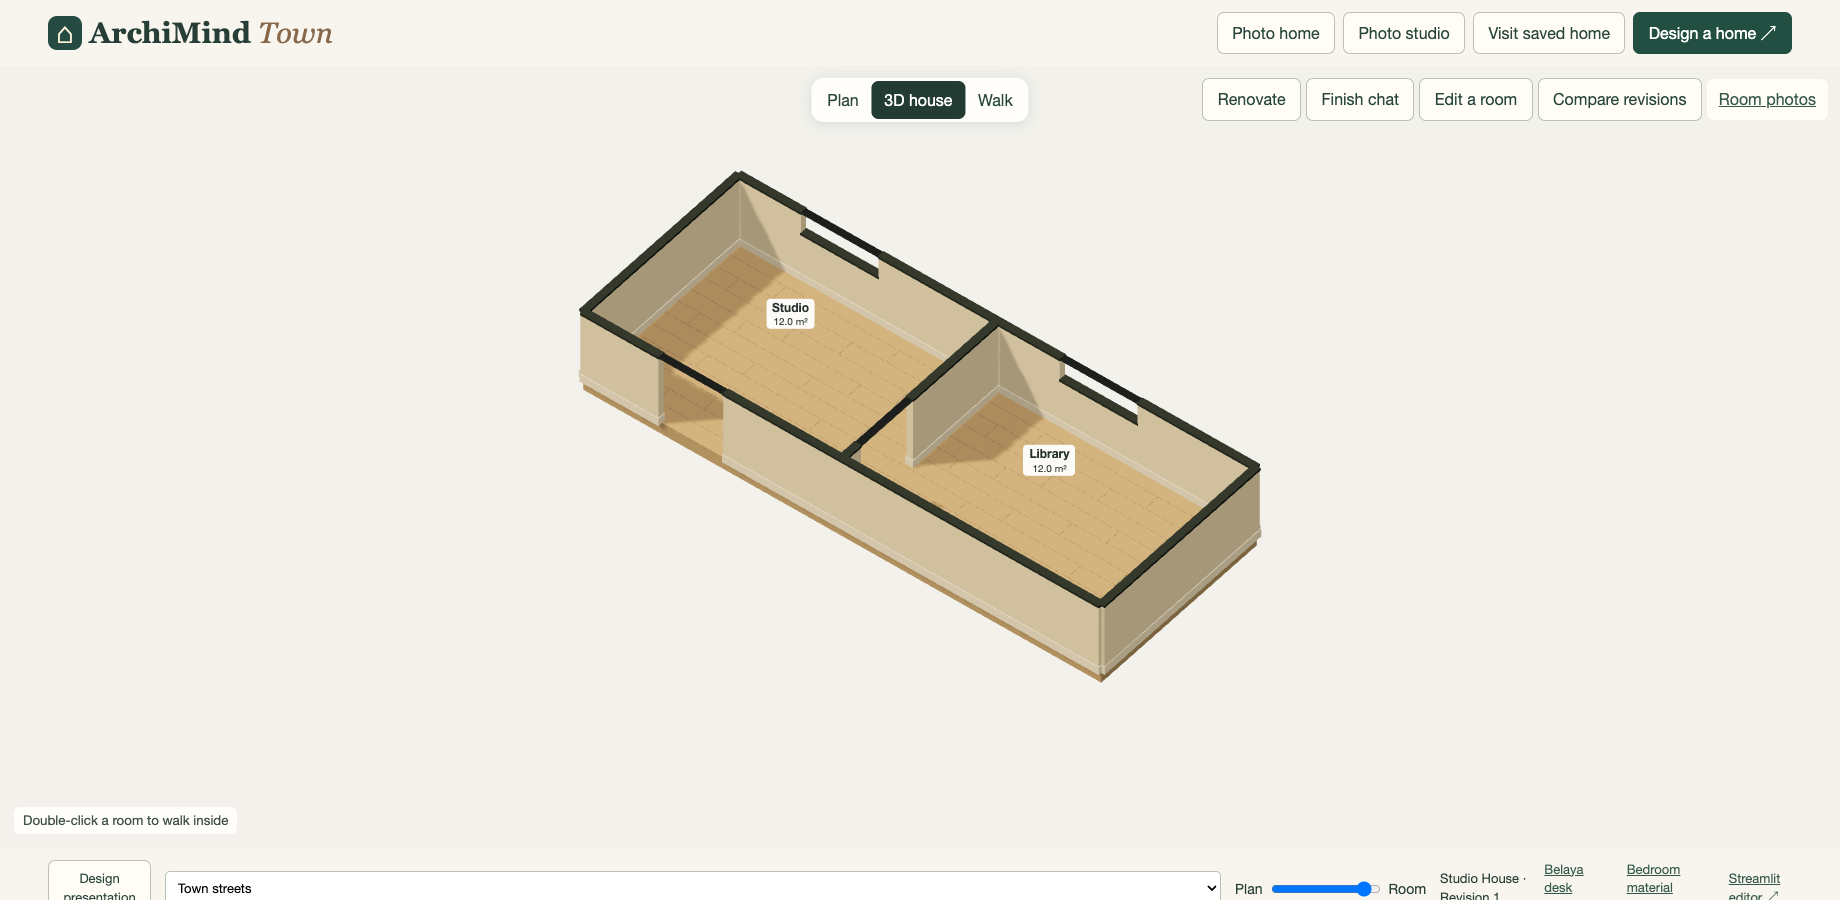
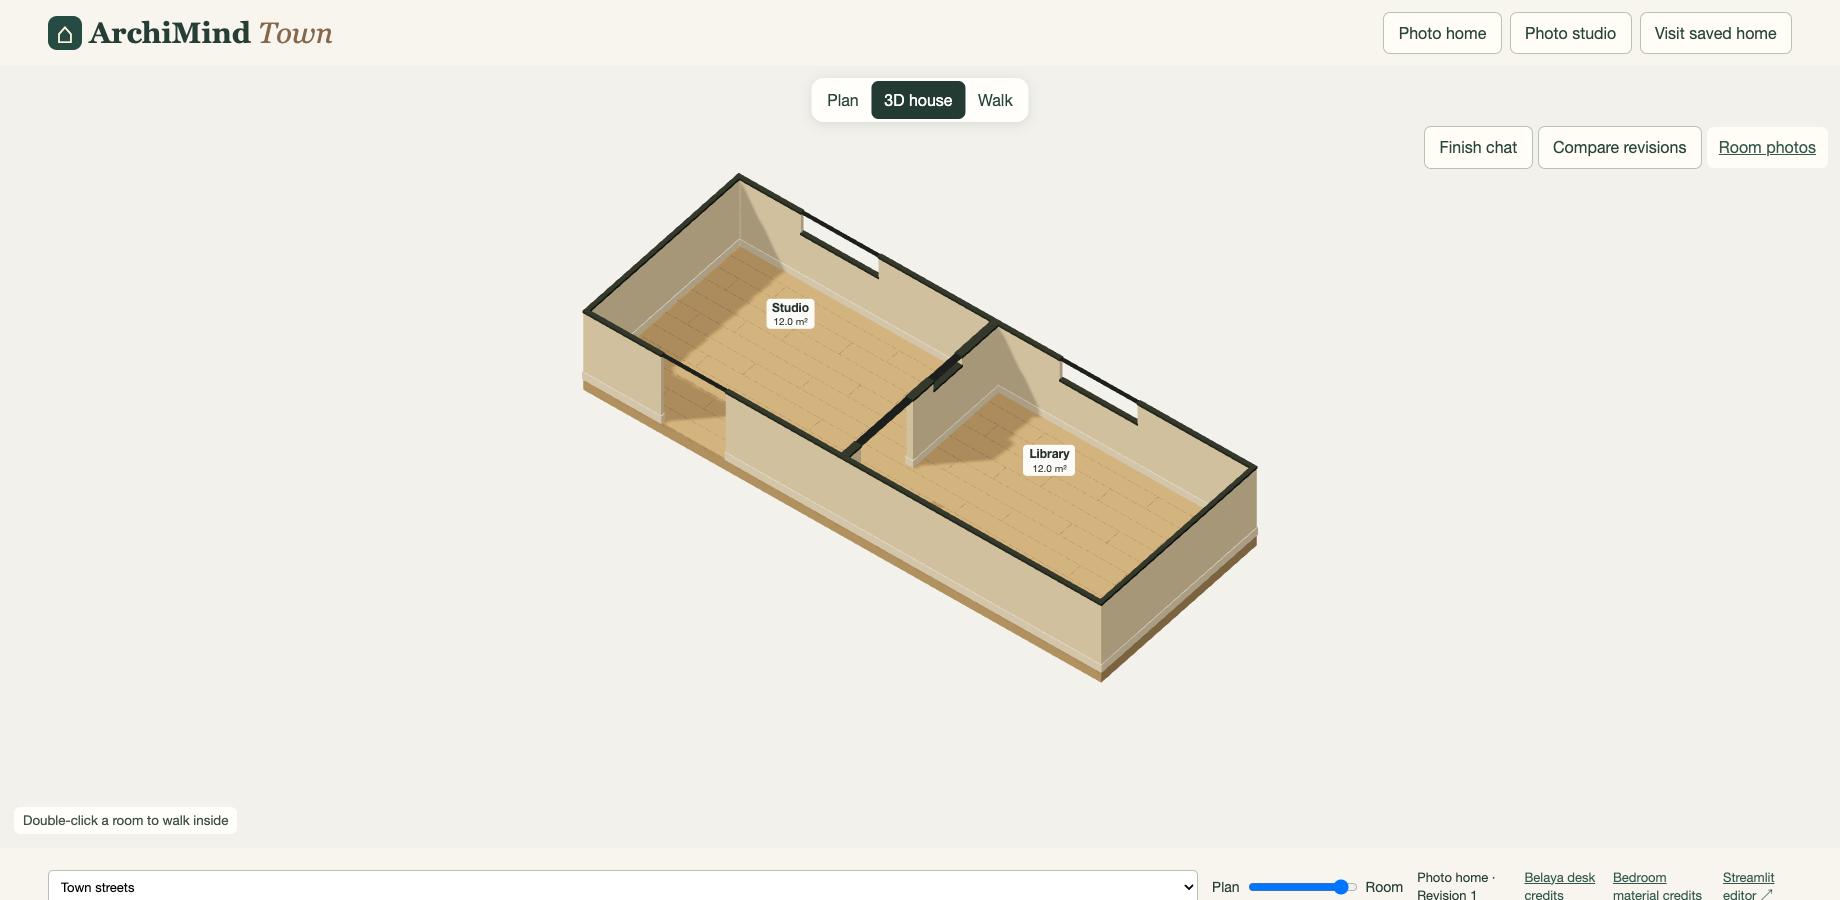
Validate shared glazing and historical camera positions and preserve overview framing

diff --git a/frontend/realistic_viewer/town/house_compare.js b/frontend/realistic_viewer/town/house_compare.js
@@ -5,6 +5,14 @@ import { manifestDigest } from "./bedroom_manifest.js";
 const bedroom = (home) =>
   home.rooms.find((part) => part.design.room.id === "bedroom");
 
+function containsCamera(home, pose) {
+  const part = home.rooms.find(p => p.design.room.id === pose.room);
+  if (!part) return false;
+  const [x, y] = part.origin, [px, height, z] = pose.eye, room = part.design.room;
+  return px >= x && px <= x + room.width_m && -z >= y && -z <= y + room.depth_m
+    && height > 0 && height < room.ceiling_height_m;
+}
+
 export function bindHouseComparison({ el, world, api, context, asset }) {
   const bookmarks = new Map();
   const dialog = el("houseCompare");
@@ -35,17 +43,15 @@ export function bindHouseComparison({ el, world, api, context, asset }) {
     let left, right, caption;
     const savedPose = bookmarks.get(view);
     if (savedPose) {
-      const hasRoom = (snapshot) =>
-        snapshot.rooms.some((p) => p.design.room.id === savedPose.room);
-      if (!hasRoom(home))
-        throw Error("The bookmarked room is absent in this revision.");
+      if (!containsCamera(home, savedPose))
+        throw Error("The camera is outside its room in this revision. Bookmark a new view.");
       if (kind === "revision") {
         if (revision < 2)
           throw Error("Save an edit before comparing two revisions.");
         const before = await api(path + "?revision=" + (revision - 1));
-        if (!hasRoom(before.home))
+        if (!containsCamera(before.home, savedPose))
           throw Error(
-            "The bookmarked room is absent in the previous revision.",
+            "The camera is outside its room in the previous revision.",
           );
         if (!current()) return;
         left = await capture(before.home, savedPose);
@@ -233,10 +239,11 @@ export function bindHouseComparison({ el, world, api, context, asset }) {
   };
   el("restoreRoomView").onclick = async () => {
     const pose = bookmarks.get(el("compareCamera").value);
-    if (!pose) return;
+    if (!pose || !containsCamera(context().home,pose)) return;
+    const source = context().home;
     dialog.close();
     await running;
-    world.restoreWalkingView(pose);
+    if (source === context().home) world.restoreWalkingView(pose);
   };
   el("compareKind").onchange = el("compareCamera").onchange = refresh;
   el("compareWipe").oninput = (event) =>

diff --git a/frontend/realistic_viewer/town/world.js b/frontend/realistic_viewer/town/world.js
@@ -1545,7 +1545,7 @@ export function createTown(canvas, status, action) {
   // Photo Studio, the client board, and revision comparison borrow the same camera and scene.
   let captureQueue = Promise.resolve();
   async function captureBedroomViews(snapshot, roomId = "bedroom", fixedViews = null) {
-    const original = home, originalPreset = photoView.value;
+    const original = home, originalPreset = photoView.value, framing = overview.framing();
     const eye = pos.clone(), heading = yaw, tilt = pitch, wasInside = inside;
     if (home !== snapshot) load(snapshot);
     const epoch = generation;
@@ -1598,6 +1598,7 @@ export function createTown(canvas, status, action) {
         load(original); enter(wasInside);
         pos.copy(eye); yaw = heading; pitch = tilt;
         photoView.value = originalPreset; selectPhoto();
+        overview.restoreFraming(framing);
       }
     }
   }

diff --git a/frontend/realistic_viewer/town/house_view.js b/frontend/realistic_viewer/town/house_view.js
@@ -331,6 +331,19 @@ export function houseView(canvas, scene, interior, street, avatar, renderer, lig
     select(value) {
       selected = value;
     },
+    framing() {
+      return {mode, room: focused?.design.room.id, eye: camera.position.clone(), target: controls.target.clone(), zoom: camera.zoom};
+    },
+    restoreFraming(frame) {
+      if (!frame.mode) return;
+      set(frame.mode);
+      focused = home.rooms.find(p => p.design.room.id === frame.room);
+      camera.position.copy(frame.eye);
+      controls.target.copy(frame.target);
+      camera.zoom = frame.zoom;
+      camera.updateProjectionMatrix();
+      controls.update();
+    },
     get mode() {
       return mode;
     },

diff --git a/src/archimind/town/bookmarks.py b/src/archimind/town/bookmarks.py
@@ -23,6 +23,24 @@ class Camera(BaseModel):
     aspect: float = Field(ge=0.15, le=8)
 
 
+def validate_room(home, pose):
+    part = next(
+        (p for p in home["rooms"] if p["design"]["room"]["id"] == pose.room), None
+    )
+    if part is None or math.dist(pose.eye, pose.target) < 0.01:
+        raise service.Problem("Select a room and a valid camera.")
+    x, y = part["origin"]
+    r = part["design"]["room"]
+    if not (
+        x <= pose.eye[0] <= x + r["width_m"]
+        and y <= -pose.eye[2] <= y + r["depth_m"]
+        and 0 < pose.eye[1] < r["ceiling_height_m"]
+    ):
+        raise service.Problem(
+            "The saved camera falls outside the room in this revision."
+        )
+
+
 def handle(q, owner, project, method, body):
     head = service.project(q, owner, project)
     if method == "GET":
@@ -39,19 +57,7 @@ def handle(q, owner, project, method, body):
         raise service.Problem("Open the latest revision to bookmark a view.", 409)
     pose = Camera.model_validate(body["pose"])
     home = service.revision(q, project, head)
-    part = next(
-        (p for p in home["rooms"] if p["design"]["room"]["id"] == pose.room), None
-    )
-    if part is None or math.dist(pose.eye, pose.target) < 0.01:
-        raise service.Problem("Select a room and a valid camera.")
-    x, y = part["origin"]
-    r = part["design"]["room"]
-    if not (
-        x <= pose.eye[0] <= x + r["width_m"]
-        and y <= -pose.eye[2] <= y + r["depth_m"]
-        and 0 < pose.eye[1] < r["ceiling_height_m"]
-    ):
-        raise service.Problem("Walk inside the room before bookmarking its view.")
+    validate_room(home, pose)
     value = pose.model_dump()
     q(
         "INSERT INTO town_bookmarks(project,room,pose) VALUES(?,?,?) ON CONFLICT(project,room) DO UPDATE SET pose=excluded.pose",
@@ -70,6 +76,7 @@ def photograph(snapshot, pose, blender):
     from . import render_queue
     from .design import digest
 
+    validate_room(snapshot["home"], Camera.model_validate(pose))
     proof = render_queue._paths(snapshot, blender) / "proof"
     key = digest([snapshot["home"]["id"], pose])
     output = proof.parent / ("camera-" + key + ".png")

diff --git a/scripts/render_photo_shell.py b/scripts/render_photo_shell.py
@@ -1,6 +1,7 @@
 """Build the confirmed photo-room shell for a bookmarked Cycles view."""
 
 import bpy
+from mathutils import Vector
 
 
 def build(board):
@@ -62,3 +63,43 @@ def build(board):
                     (abs(b[0] - a[0]) + 0.075, abs(b[1] - a[1]) + 0.075, 0.13),
                     "#eadfcb",
                 )
+        for win in room["windows"]:
+            side = win["wall"]
+            if side == "west" and win["id"].startswith("join-window-"):
+                continue
+            width = win["width_m"]
+            along = win["offset_m"] + width / 2
+            sill, height = win["sill_height_m"], win["height_m"]
+            horizontal = side in {"north", "south"}
+            x = ox + (along if horizontal else w if side == "east" else 0)
+            y = oy + (d if side == "north" else 0 if horizontal else along)
+            if not win["id"].startswith("join-window-"):
+                inward = {
+                    "north": (0, -1, 0),
+                    "south": (0, 1, 0),
+                    "east": (-1, 0, 0),
+                    "west": (1, 0, 0),
+                }[side]
+                light = bpy.data.lights.new("Window daylight", "AREA")
+                light.shape, light.size, light.size_y = "RECTANGLE", width, height
+                light.energy = 250 * width * height
+                emitter = bpy.data.objects.new("Window daylight", light)
+                scene.collection.objects.link(emitter)
+                emitter.location = (
+                    Vector((x, y, sill + height / 2)) - Vector(inward) * 0.12
+                )
+                emitter.rotation_euler = (
+                    Vector(inward).to_track_quat("-Z", "Y").to_euler()
+                )
+            box(
+                "Window sill",
+                (x, y, sill),
+                (width + 0.1, 0.19, 0.07) if horizontal else (0.19, width + 0.1, 0.07),
+                "#e8dec9",
+            )
+            box(
+                "Window mullion",
+                (x, y, sill + height / 2),
+                (0.045, 0.09, height) if horizontal else (0.09, 0.045, height),
+                "#efe9dc",
+            )

diff --git a/src/archimind/town/photo_home.py b/src/archimind/town/photo_home.py
@@ -109,12 +109,18 @@ def assemble(data):
             raise service.Problem(
                 f"Reconcile the width and south-end offset on both sides of the doorway to {row.name}."
             )
-        if any(
-            (w.wall == "west" and i) or (w.wall == "east" and i < len(intake.rooms) - 1)
-            for w in row.windows
-        ):
+
+        def glazing(room, wall):
+            return sorted(
+                (w.offset, w.width, w.sill, w.height)
+                for w in room.windows
+                if w.wall == wall
+            )
+
+        if i and glazing(row, "west") != glazing(intake.rooms[i - 1], "east"):
             raise service.Problem(
-                "A shared partition cannot be an exterior window wall."
+                f"Reconcile shared windows on both sides of the partition to {row.name}: "
+                "check the south-end offset, width, sill and height."
             )
         key, jpeg = prepare_photo(base64.b64decode(row.photo, validate=True))
         if key in images:
@@ -136,9 +142,20 @@ def assemble(data):
                         height_m=2.0,
                     )
                 )
+
+        def window_id(window, n):
+            if window.wall == "west" and i:
+                partition = i
+            elif window.wall == "east" and i < len(intake.rooms) - 1:
+                partition = i + 1
+            else:
+                return f"window-{i + 1}-{n + 1}"
+            order = sorted(w.offset for w in row.windows if w.wall == window.wall)
+            return f"join-window-{partition}-{1 + order.index(window.offset)}"
+
         windows = [
             Window(
-                id=f"window-{i + 1}-{n + 1}",
+                id=window_id(w, n),
                 wall=w.wall,
                 offset_m=w.offset,
                 width_m=w.width,

diff --git a/tests/test_town_photo_home.py b/tests/test_town_photo_home.py
@@ -86,3 +86,22 @@ def test_insufficient_or_conflicting_room_intake(bad):
         d["rooms"][0]["windows"][0]["wall"] = "south"
     with pytest.raises(service.Problem):
         assemble(d)
+
+
+def test_shared_glazing_requires_both_observations_and_matches_by_location():
+    intake = payload()
+    east = dict(wall="east", offset=0.15, width=0.65, sill=0.85, height=1.1)
+    west = {**east, "wall": "west"}
+    intake["rooms"][0]["windows"].append(east)
+    intake["rooms"][1]["windows"].insert(0, west)
+    home, _ = assemble(intake)
+    shared = [
+        next(w for w in p["design"]["room"]["windows"] if w["wall"] == side)
+        for p, side in zip(home["rooms"], ["east", "west"])
+    ]
+    assert shared[0]["id"] == shared[1]["id"] == "join-window-1-1"
+    for field in ("offset", "width", "sill", "height"):
+        west[field] += 0.01
+        with pytest.raises(service.Problem, match="Reconcile shared windows"):
+            assemble(intake)
+        west[field] = east[field]
